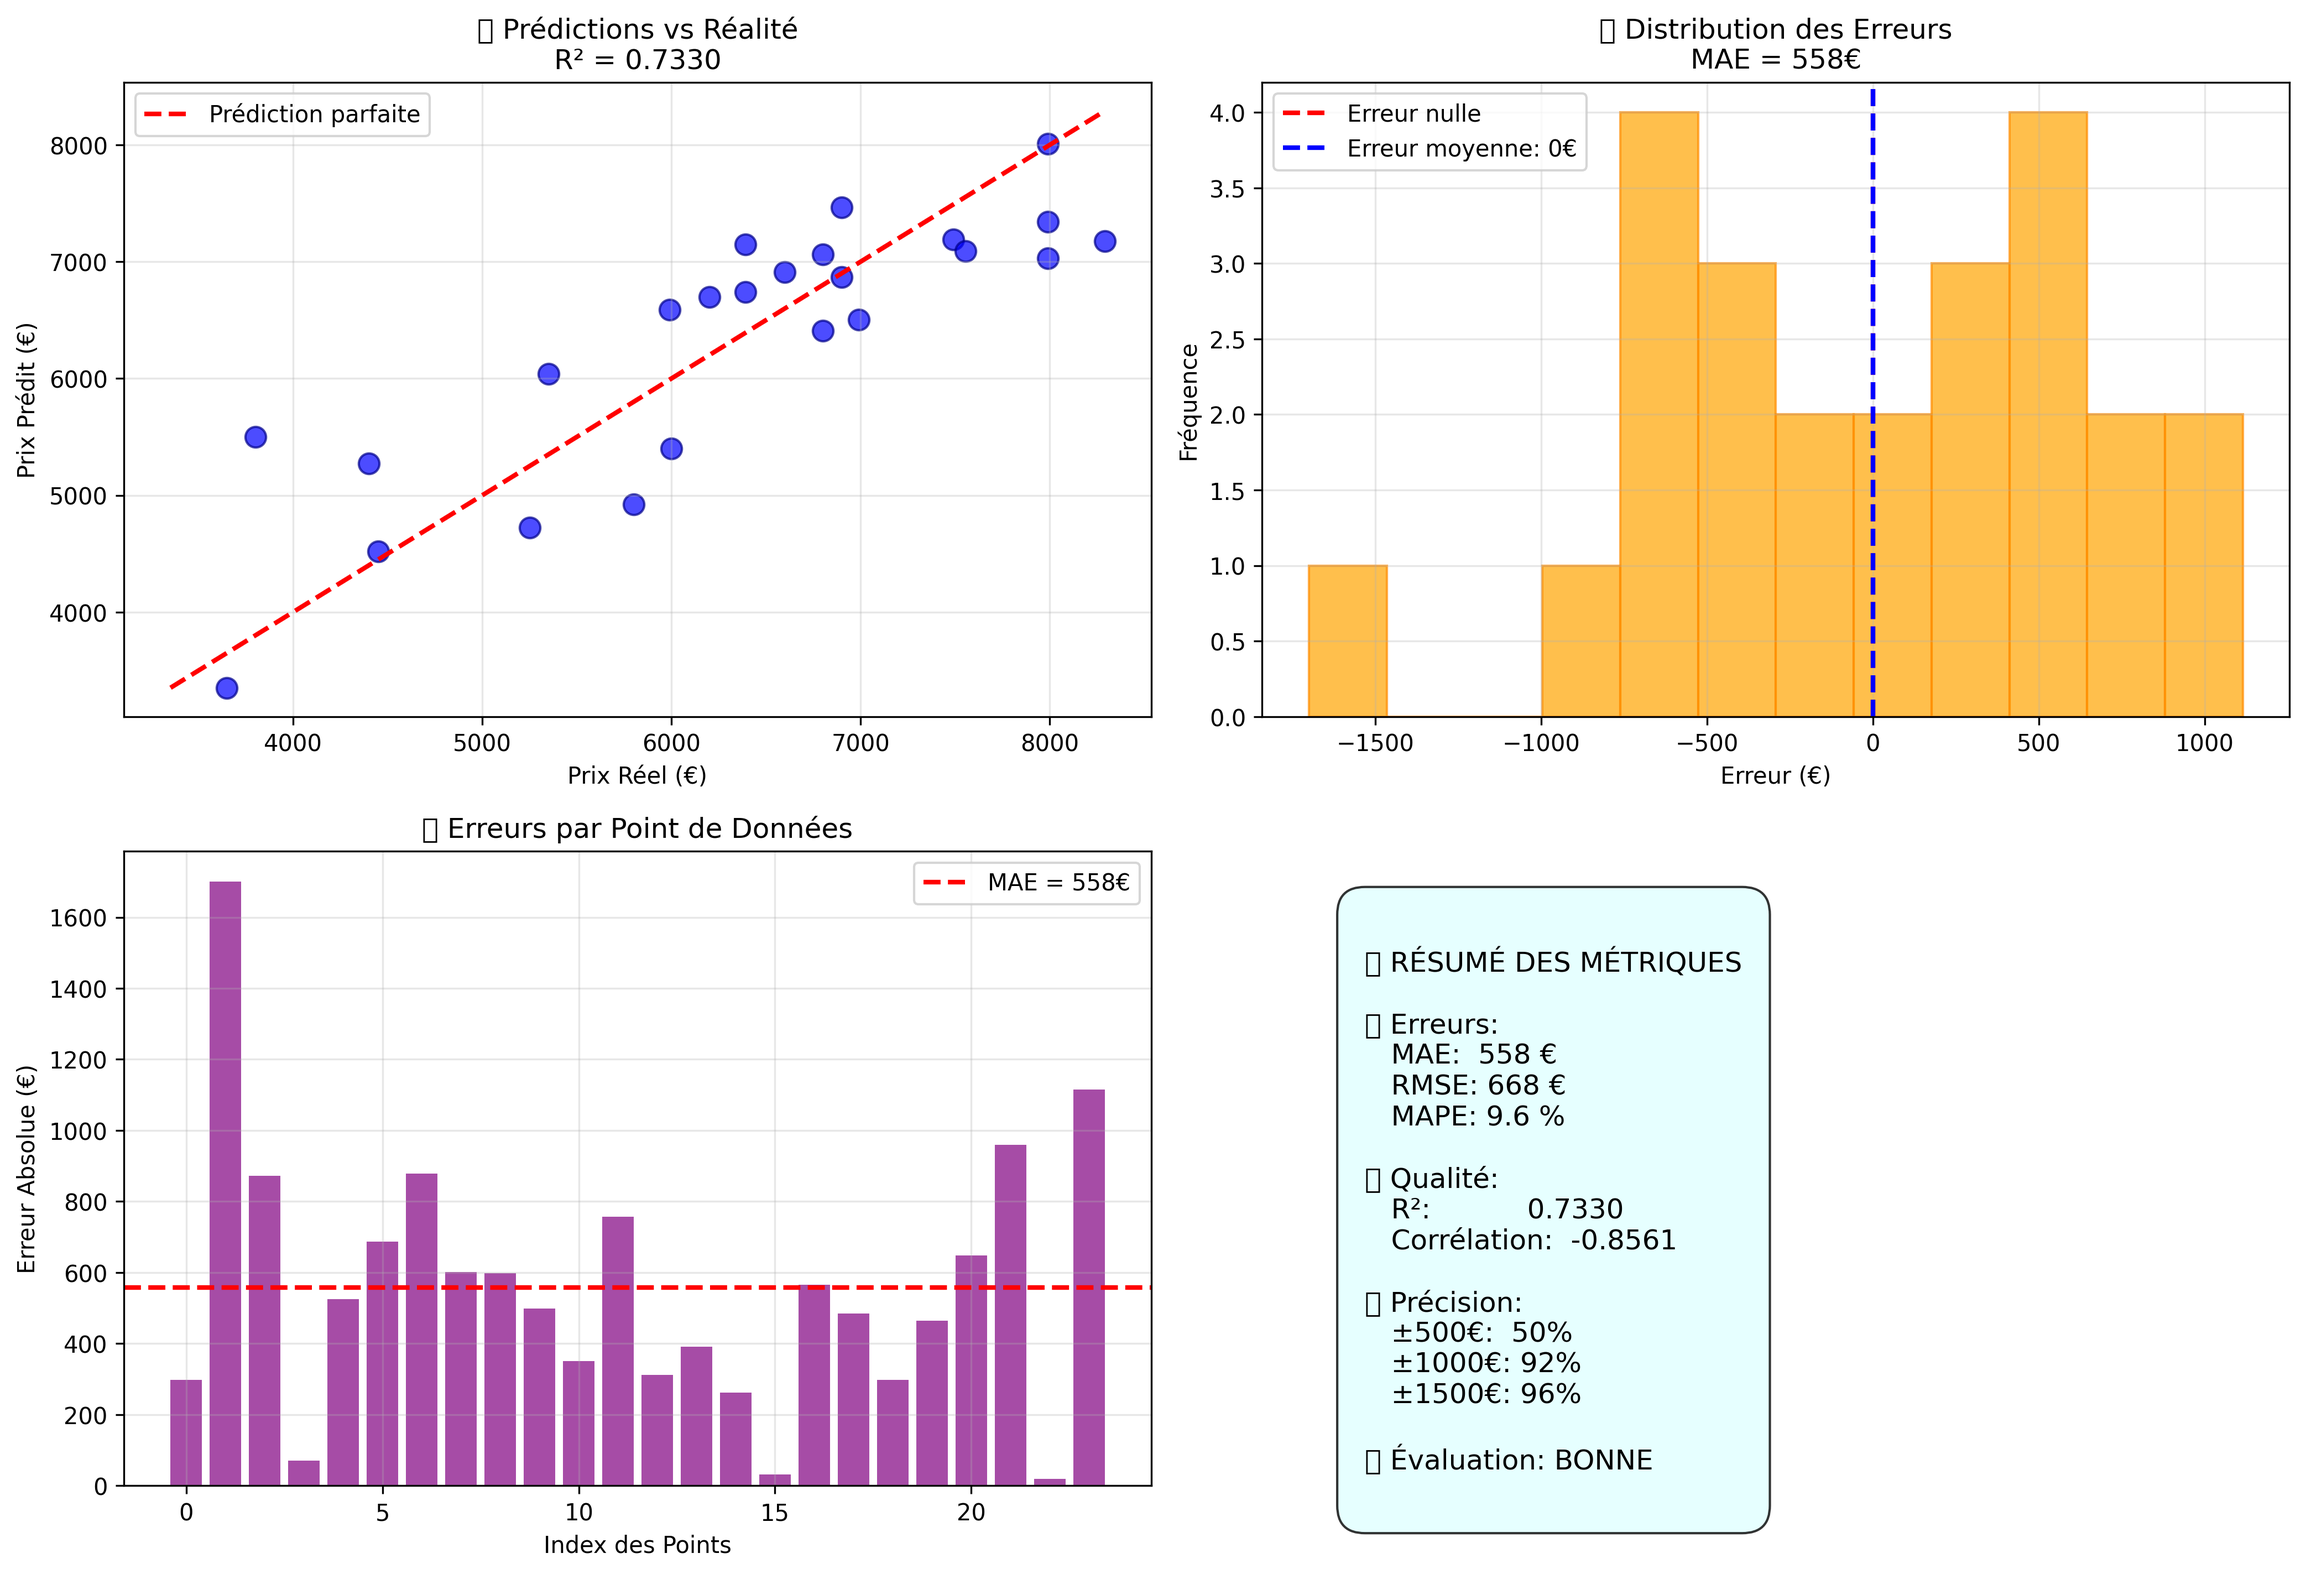
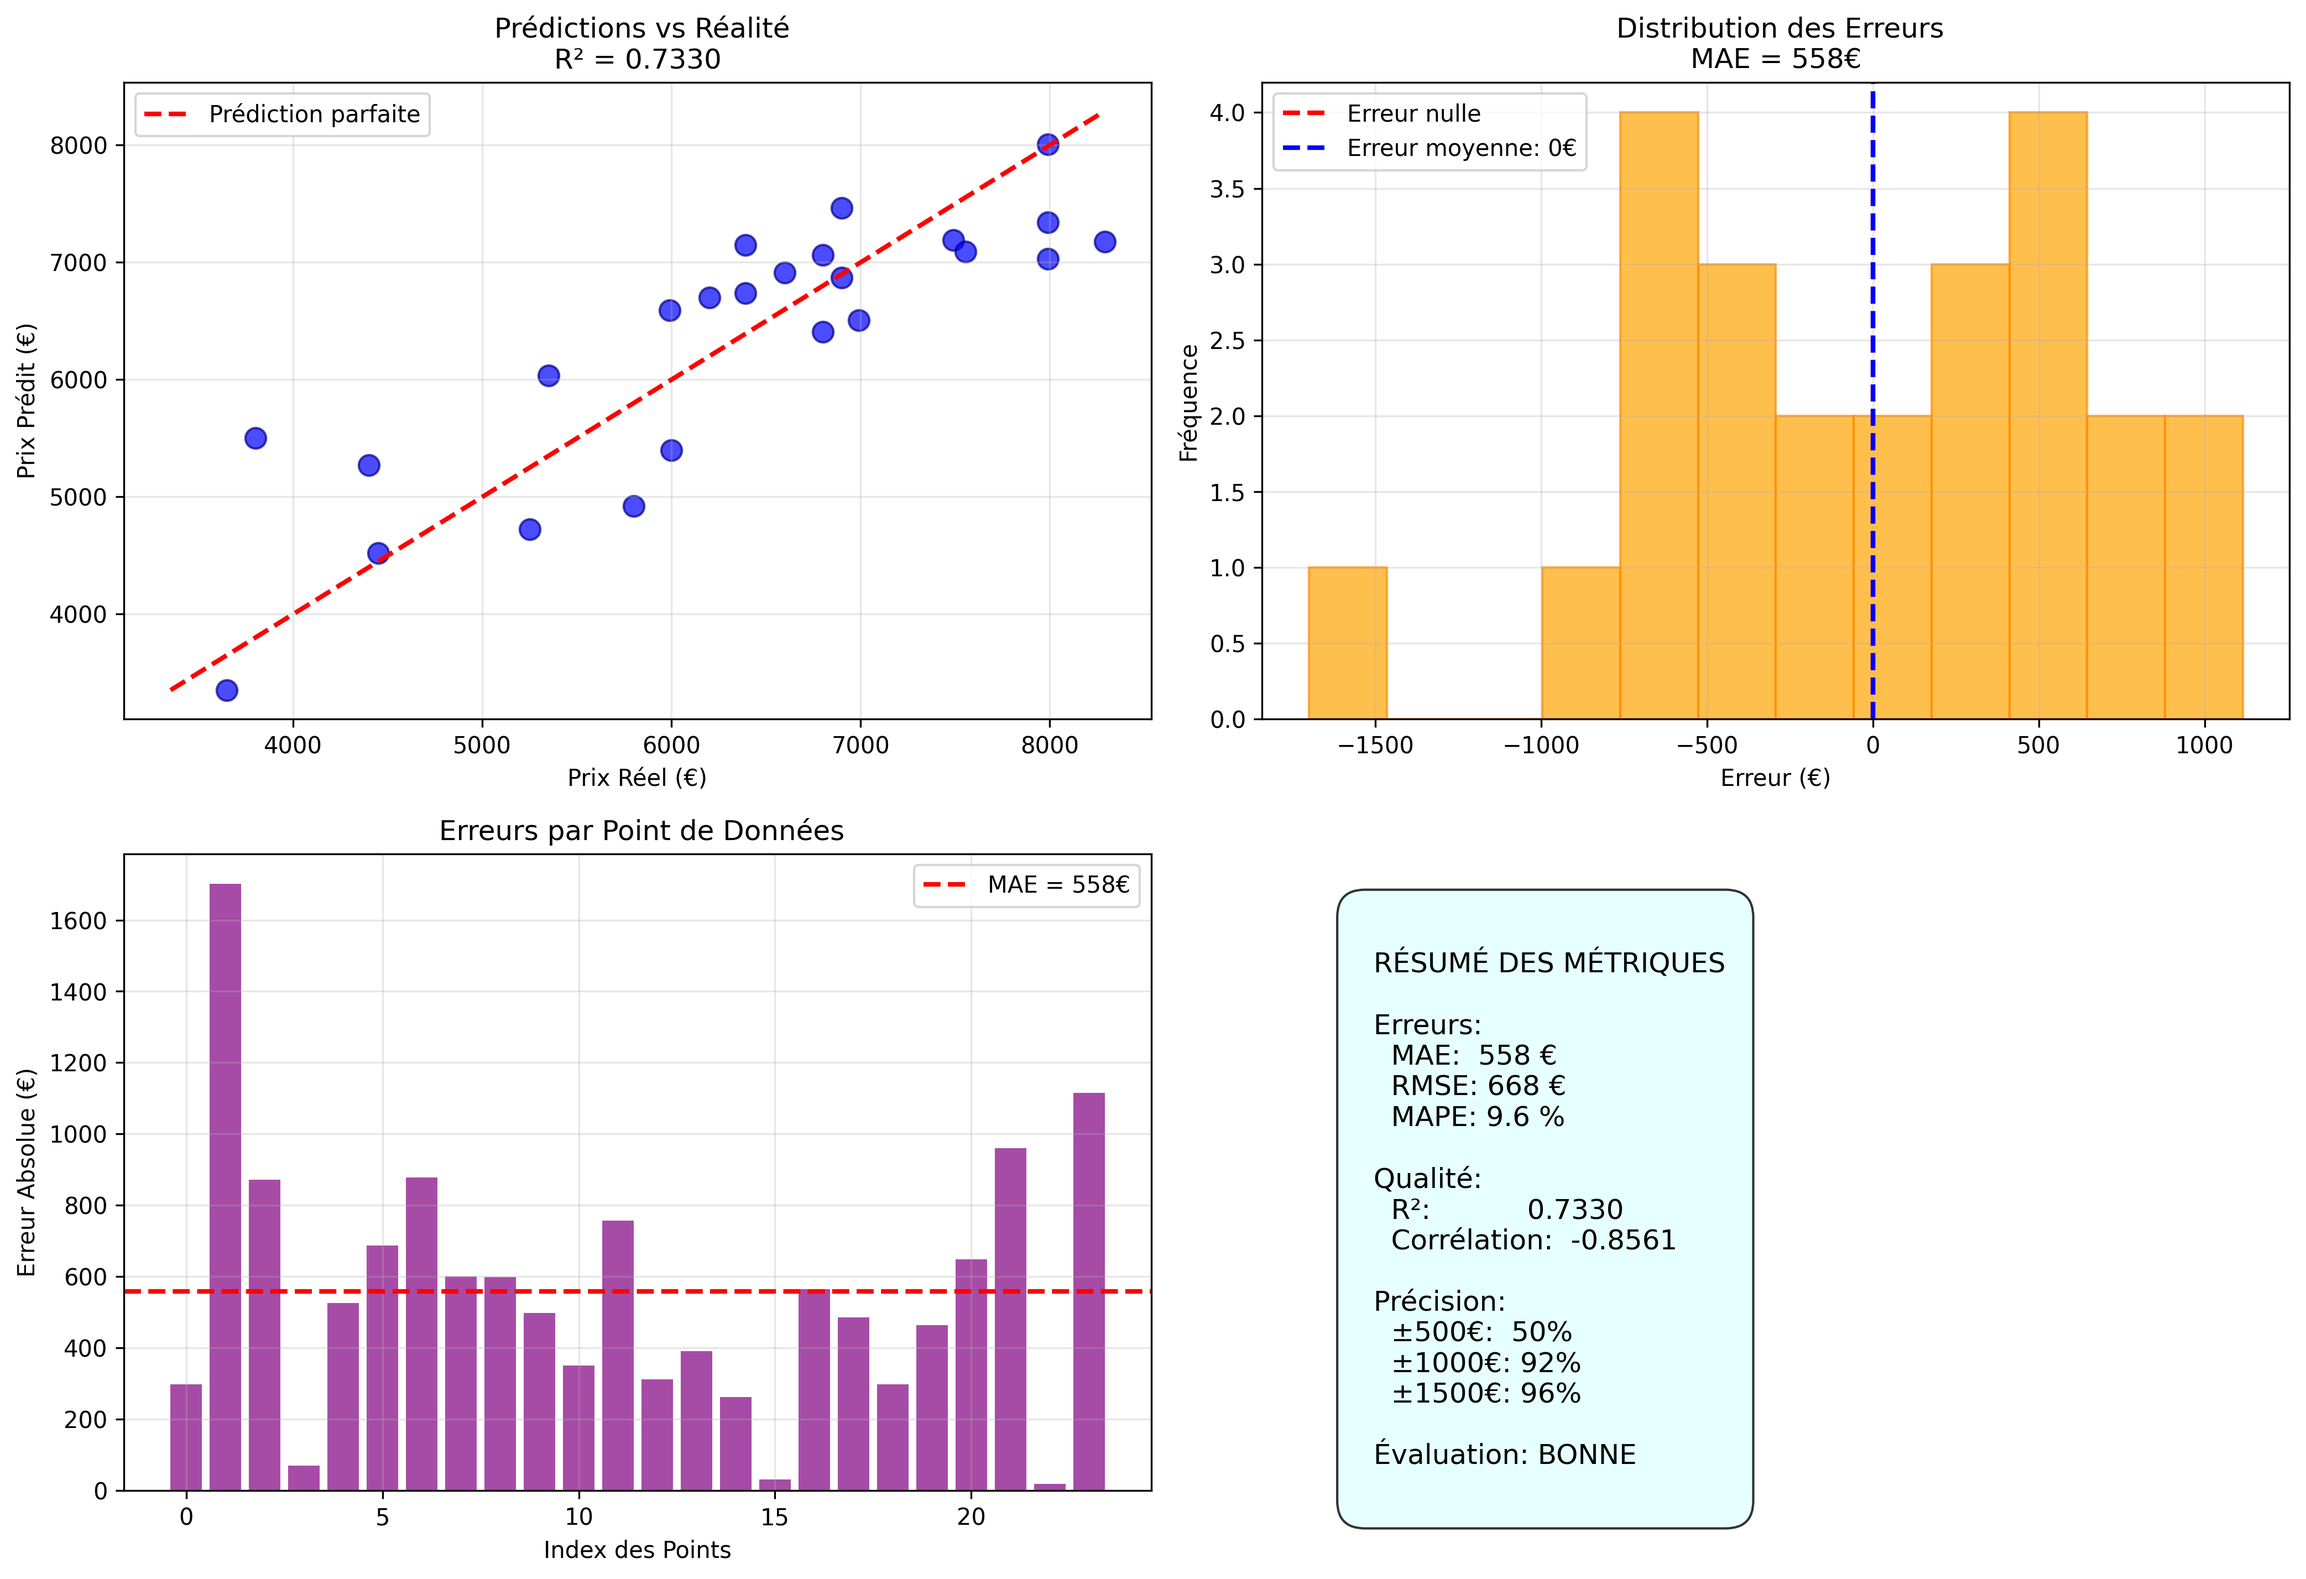
Update image files and adjust print statements for improved clarity in demo script

diff --git a/src/demo.py b/src/demo.py
@@ -38,7 +38,7 @@ def load_and_prepare_data():
     mileage = data['km'].values
     actual_prices = data['price'].values
     
-    print(f"📊 Données chargées: {len(mileage)} points")
+    print(f" Données chargées: {len(mileage)} points")
     print(f"   Kilométrage: {np.min(mileage):.0f} - {np.max(mileage):.0f} km")
     print(f"   Prix: {np.min(actual_prices):.0f} - {np.max(actual_prices):.0f} €")
     
@@ -65,7 +65,7 @@ def plot_data_distribution(mileage, actual_prices):
     Returns:
         matplotlib.figure.Figure: The created figure
     """
-    print("\n📈 1. VISUALISATION DE LA RÉPARTITION DES DONNÉES")
+    print("\n 1. VISUALISATION DE LA RÉPARTITION DES DONNÉES")
     print("-" * 50)
     
     # Create comprehensive data visualization
@@ -78,7 +78,7 @@ def plot_data_distribution(mileage, actual_prices):
     plt.colorbar(scatter, label='Prix (€)')
     plt.xlabel('Kilométrage (km)', fontsize=11)
     plt.ylabel('Prix (€)', fontsize=11)
-    plt.title('🔍 Répartition des Données\nPrix vs Kilométrage', fontsize=12, fontweight='bold')
+    plt.title(' Répartition des Données\nPrix vs Kilométrage', fontsize=12, fontweight='bold')
     plt.grid(True, alpha=0.3)
     
     # Add data statistics
@@ -96,7 +96,7 @@ def plot_data_distribution(mileage, actual_prices):
                 label=f'Moyenne: {np.mean(mileage):.0f}')
     plt.xlabel('Kilométrage (km)', fontsize=11)
     plt.ylabel('Fréquence', fontsize=11)
-    plt.title('📊 Distribution du Kilométrage', fontsize=12, fontweight='bold')
+    plt.title(' Distribution du Kilométrage', fontsize=12, fontweight='bold')
     plt.legend()
     plt.grid(True, alpha=0.3)
     
@@ -107,7 +107,7 @@ def plot_data_distribution(mileage, actual_prices):
                 label=f'Moyenne: {np.mean(actual_prices):.0f}€')
     plt.xlabel('Prix (€)', fontsize=11)
     plt.ylabel('Fréquence', fontsize=11)
-    plt.title('💰 Distribution des Prix', fontsize=12, fontweight='bold')
+    plt.title(' Distribution des Prix', fontsize=12, fontweight='bold')
     plt.legend()
     plt.grid(True, alpha=0.3)
     
@@ -133,7 +133,7 @@ def add_regression_plot(fig, mileage, actual_prices, predictions):
     
     # Scatter plot of actual data
     plt.scatter(mileage, actual_prices, color='blue', alpha=0.7, s=70, 
-               label='🔵 Données réelles', edgecolors='darkblue', linewidth=0.5)
+               label=' Données réelles', edgecolors='darkblue', linewidth=0.5)
     
     # Create smooth regression line
     km_range = np.linspace(np.min(mileage) - 5000, np.max(mileage) + 5000, 200)
@@ -147,11 +147,11 @@ def add_regression_plot(fig, mileage, actual_prices, predictions):
     
     # Plot regression line
     plt.plot(km_range, smooth_predictions, color='red', linewidth=3, 
-             label='🔴 Ligne de régression', alpha=0.9)
+             label=' Ligne de régression', alpha=0.9)
     
     # Plot individual predictions
     plt.scatter(mileage, predictions, color='orange', alpha=0.8, s=50,
-               label='🟠 Prédictions', marker='x', linewidth=2)
+               label=' Prédictions', marker='x', linewidth=2)
     
     # Connect actual to predicted with lines
     for i in range(len(mileage)):
@@ -160,7 +160,7 @@ def add_regression_plot(fig, mileage, actual_prices, predictions):
     
     plt.xlabel('Kilométrage (km)', fontsize=12)
     plt.ylabel('Prix (€)', fontsize=12)
-    plt.title('🎯 Résultat de la Régression Linéaire\n' + 
+    plt.title(' Résultat de la Régression Linéaire\n' + 
               f'Équation: prix = f(km_normalisé) où f(x) = {THETA0:.6f} + {THETA1:.6f}×x',
               fontsize=13, fontweight='bold')
     plt.legend(fontsize=11, loc='upper right')
@@ -180,11 +180,11 @@ def add_regression_plot(fig, mileage, actual_prices, predictions):
              verticalalignment='top', bbox=dict(boxstyle='round', facecolor='wheat', alpha=0.9))
     
     plt.tight_layout()
+    # plt.show()
     plt.savefig('../graphs/complete_demonstration.png', dpi=300, bbox_inches='tight')
     plt.close()
     
     print("   ✅ Graphique de régression linéaire créé")
-    print("   📁 Sauvegardé: ../graphs/complete_demonstration.png")
 
 
 def calculate_precision_metrics(actual_prices, predictions, mileage):
@@ -263,7 +263,7 @@ def print_precision_results(metrics, mileage, actual_prices, predictions):
     print(f"   • Coefficient R²:                {metrics['r_squared']:.4f} ({metrics['r_squared']*100:.1f}%)")
     print(f"   • Corrélation:                   {metrics['correlation']:.4f}")
     
-    print(f"\n🎯 PRÉCISION PAR SEUILS:")
+    print(f"\n PRÉCISION PAR SEUILS:")
     print(f"   • Prédictions à ±500€:           {metrics['within_500']:.1f}% ({int(metrics['within_500']*len(metrics['errors'])/100)}/{len(metrics['errors'])})")
     print(f"   • Prédictions à ±1000€:          {metrics['within_1000']:.1f}% ({int(metrics['within_1000']*len(metrics['errors'])/100)}/{len(metrics['errors'])})")
     print(f"   • Prédictions à ±1500€:          {metrics['within_1500']:.1f}% ({int(metrics['within_1500']*len(metrics['errors'])/100)}/{len(metrics['errors'])})")
@@ -271,30 +271,30 @@ def print_precision_results(metrics, mileage, actual_prices, predictions):
     # Quality assessment
     print(f"\n📋 ÉVALUATION DE LA QUALITÉ:")
     if metrics['r_squared'] >= 0.8:
-        quality = "🟢 EXCELLENTE"
+        quality = " EXCELLENTE"
     elif metrics['r_squared'] >= 0.6:
-        quality = "🟡 BONNE"
+        quality = " BONNE"
     elif metrics['r_squared'] >= 0.4:
-        quality = "🟠 MODÉRÉE"
+        quality = " MODÉRÉE"
     else:
-        quality = "🔴 FAIBLE"
+        quality = " FAIBLE"
     
     print(f"   • Qualité globale du modèle:     {quality} (R² = {metrics['r_squared']:.3f})")
     
     if metrics['mape'] <= 10:
-        error_assessment = "🟢 EXCELLENTE"
+        error_assessment = " EXCELLENTE"
     elif metrics['mape'] <= 20:
-        error_assessment = "🟡 ACCEPTABLE"
+        error_assessment = " ACCEPTABLE"
     else:
-        error_assessment = "🔴 ÉLEVÉE"
+        error_assessment = " ÉLEVÉE"
     
     print(f"   • Erreur pourcentage moyenne:    {error_assessment} ({metrics['mape']:.1f}%)")
     
     # Best and worst predictions
-    print(f"\n🏆 MEILLEURE PRÉDICTION:")
+    print(f"\n MEILLEURE PRÉDICTION:")
     print(f"   Point #{metrics['best_idx']+1}: {mileage[metrics['best_idx']]:.0f}km → {actual_prices[metrics['best_idx']]:.0f}€ (prédit: {predictions[metrics['best_idx']]:.0f}€, erreur: {metrics['abs_errors'][metrics['best_idx']]:.0f}€)")
     
-    print(f"\n⚠  PIRE PRÉDICTION:")
+    print(f"\n  PIRE PRÉDICTION:")
     print(f"   Point #{metrics['worst_idx']+1}: {mileage[metrics['worst_idx']]:.0f}km → {actual_prices[metrics['worst_idx']]:.0f}€ (prédit: {predictions[metrics['worst_idx']]:.0f}€, erreur: {metrics['abs_errors'][metrics['worst_idx']]:.0f}€)")
 
 
@@ -317,7 +317,7 @@ def create_precision_plots(metrics, actual_prices, predictions):
     ax1.plot([min_price, max_price], [min_price, max_price], 'r--', linewidth=2, label='Prédiction parfaite')
     ax1.set_xlabel('Prix Réel (€)')
     ax1.set_ylabel('Prix Prédit (€)')
-    ax1.set_title(f'🎯 Prédictions vs Réalité\nR² = {metrics["r_squared"]:.4f}')
+    ax1.set_title(f' Prédictions vs Réalité\nR² = {metrics["r_squared"]:.4f}')
     ax1.legend()
     ax1.grid(True, alpha=0.3)
     
@@ -328,7 +328,7 @@ def create_precision_plots(metrics, actual_prices, predictions):
                 label=f'Erreur moyenne: {np.mean(metrics["errors"]):.0f}€')
     ax2.set_xlabel('Erreur (€)')
     ax2.set_ylabel('Fréquence')
-    ax2.set_title(f'📊 Distribution des Erreurs\nMAE = {metrics["mae"]:.0f}€')
+    ax2.set_title(f' Distribution des Erreurs\nMAE = {metrics["mae"]:.0f}€')
     ax2.legend()
     ax2.grid(True, alpha=0.3)
     
@@ -337,7 +337,7 @@ def create_precision_plots(metrics, actual_prices, predictions):
     ax3.axhline(metrics['mae'], color='red', linestyle='--', linewidth=2, label=f'MAE = {metrics["mae"]:.0f}€')
     ax3.set_xlabel('Index des Points')
     ax3.set_ylabel('Erreur Absolue (€)')
-    ax3.set_title('📈 Erreurs par Point de Données')
+    ax3.set_title(' Erreurs par Point de Données')
     ax3.legend()
     ax3.grid(True, alpha=0.3)
     
@@ -355,27 +355,28 @@ def create_precision_plots(metrics, actual_prices, predictions):
         quality = "FAIBLE"
     
     metrics_text = f"""
-📋 RÉSUMÉ DES MÉTRIQUES
+ RÉSUMÉ DES MÉTRIQUES
 
-🎯 Erreurs:
+ Erreurs:
    MAE:  {metrics['mae']:.0f} €
    RMSE: {metrics['rmse']:.0f} €
    MAPE: {metrics['mape']:.1f} %
 
-📊 Qualité:
+ Qualité:
    R²:           {metrics['r_squared']:.4f}
    Corrélation:  {metrics['correlation']:.4f}
 
-✅ Précision:
+ Précision:
    ±500€:  {metrics['within_500']:.0f}%
    ±1000€: {metrics['within_1000']:.0f}%
    ±1500€: {metrics['within_1500']:.0f}%
 
-🏆 Évaluation: {quality}
+ Évaluation: {quality}
 """
     ax4.text(0.1, 0.9, metrics_text, fontsize=12, verticalalignment='top',
             bbox=dict(boxstyle='round,pad=1', facecolor='lightcyan', alpha=0.8))
     
+    #plt.show()
     plt.tight_layout()
     plt.savefig('../graphs/precision_summary.png', dpi=300, bbox_inches='tight')
     plt.close()

diff --git a/src/const.py b/src/const.py
@@ -4,5 +4,4 @@ MEAN_KM = "101066.25"
 STD_KM = "51565.1899106445"
 MEAN_PRICE = "6331.833333333333"
 STD_PRICE = "1291.8688873961714"
-
 DATA_FILE = "../data/data.csv"
